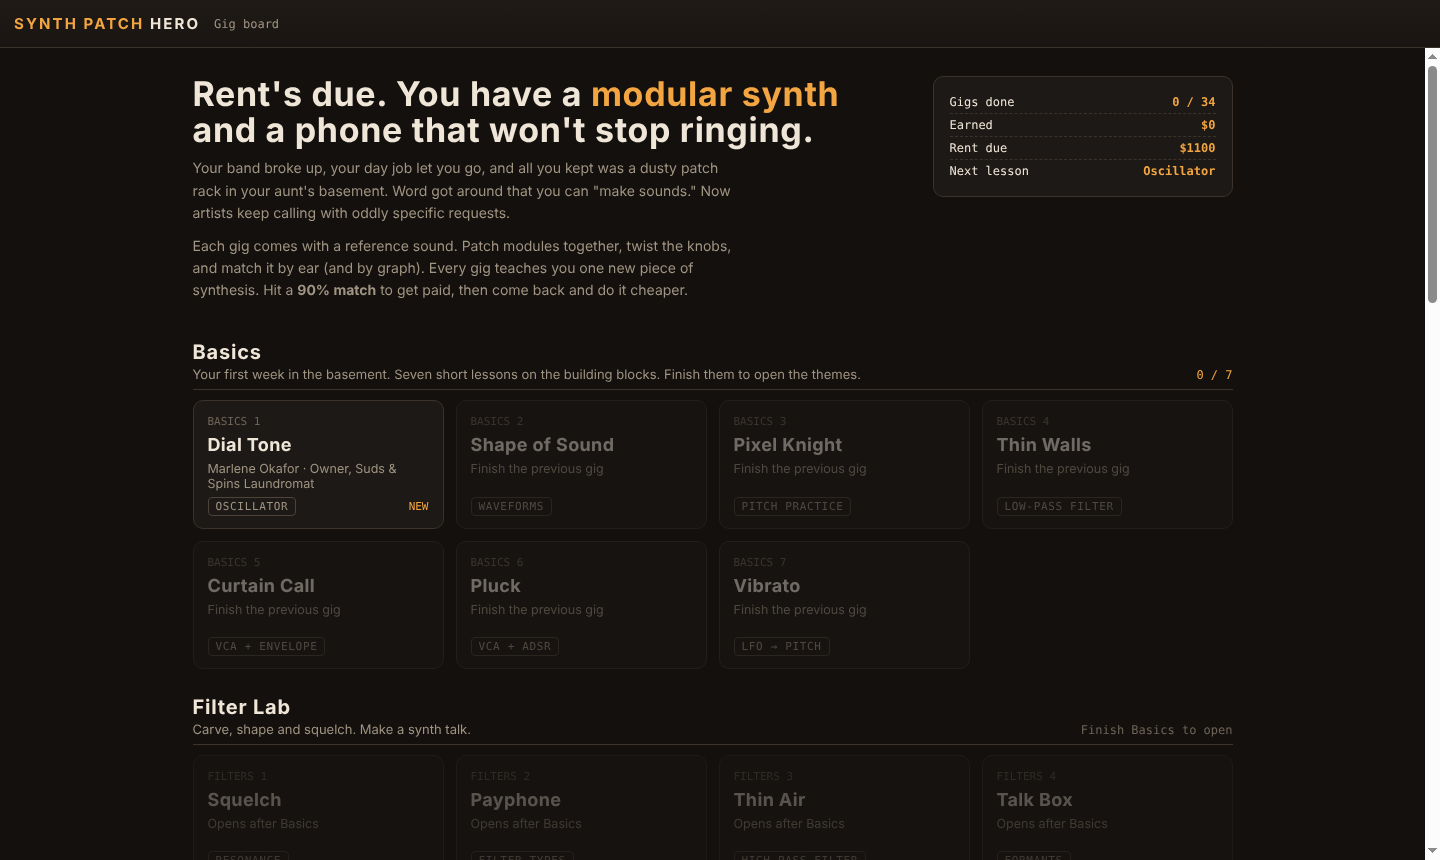
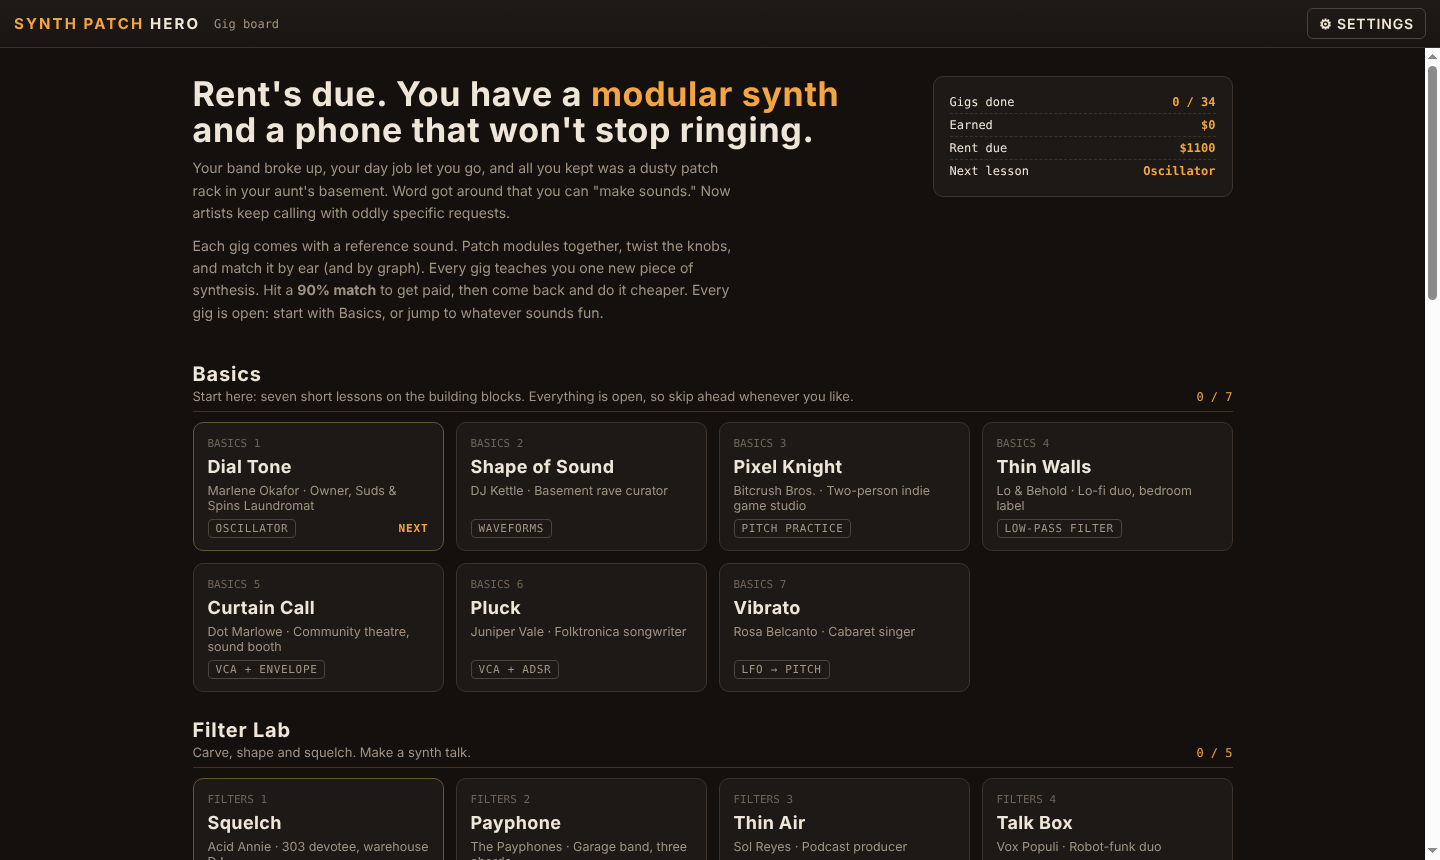
Open every gig from the start; Settings haptics is just on/off
Players can explore and skip ahead; progress is still recorded per gig.
Each chapter marks its earliest unsolved gig as NEXT. Removes the
'unlock all' button and the haptics Test button.

Claude-Session: https://claude.ai/code/session_01D5scM1CNbwhd8cCv6p5T59

diff --git a/js/ui.js b/js/ui.js
@@ -14,21 +14,19 @@ function showBoard(){
   const earn = Object.values(progress.solved).length*85;
   $('#ledger').innerHTML=`<div class="row"><span>Gigs done</span><b>${solved} / ${LEVELS.length}</b></div>
     <div class="row"><span>Earned</span><b>$${earn}</b></div><div class="row"><span>Rent due</span><b>$${Math.max(0,1100-earn)}</b></div>
-    <div class="row"><span>Next lesson</span><b>${(LEVELS.find((l,i)=>!progress.solved[l.id]&&isUnlocked(i))||{concept:'Mastery'}).concept}</b></div>`;
+    <div class="row"><span>Next lesson</span><b>${(LEVELS.find(l=>!progress.solved[l.id])||{concept:'Mastery'}).concept}</b></div>`;
   const g=$('#gigs'); g.innerHTML='';
   CHAPTERS.forEach(c=>{
     const done=c.levels.filter(i=>progress.solved[LEVELS[i].id]).length;
-    const locked=c.id!=='basics'&&!basicsDone()&&!progress.unlockAll;
-    const sec=el('section',{class:'chapter'+(locked?' locked':'')});
-    sec.innerHTML=`<div class="chHead"><div><h2>${c.title}</h2><p>${c.blurb}</p></div><span class="chProg">${locked?'Finish Basics to open':done===c.levels.length?'✓ complete':done+' / '+c.levels.length}</span></div>`;
+    const sec=el('section',{class:'chapter'}), nxt=nextInChapter(c);
+    sec.innerHTML=`<div class="chHead"><div><h2>${c.title}</h2><p>${c.blurb}</p></div><span class="chProg">${done===c.levels.length?'✓ complete':done+' / '+c.levels.length}</span></div>`;
     const grid=el('div',{class:'gigs'});
     c.levels.forEach((i,k)=>{
-      const L=LEVELS[i], sv=progress.solved[L.id], open=isUnlocked(i);
-      let b=el('button',{class:'gig'+(sv?' solved':'')+(L.challenge?' challenge':'')});
-      b.disabled=!open;
+      const L=LEVELS[i], sv=progress.solved[L.id];
+      let b=el('button',{class:'gig'+(sv?' solved':'')+(L.challenge?' challenge':'')+(i===nxt?' next':'')});
       b.innerHTML=`<div class="num">${c.short} ${k+1}${L.challenge?' · <span class="chal">CHALLENGE</span>':''}</div><div class="title">${L.title}</div>
-        <div class="client">${open?L.client+' · '+L.role:locked?'Opens after Basics':'Finish the previous gig'}</div>
-        <div class="concept"><span class="tag">${L.concept}</span>${sv?`<span class="stamp">PAID · ${sv.cost}¢ · ${Math.round(sv.match)}%${progress.played&&progress.played[L.id]?' · ♪':''}${progress.helped&&progress.helped[L.id]?' · helped':''}</span>`:open?'<span style="color:var(--amber)">NEW</span>':''}</div>`;
+        <div class="client">${L.client} · ${L.role}</div>
+        <div class="concept"><span class="tag">${L.concept}</span>${sv?`<span class="stamp">PAID · ${sv.cost}¢ · ${Math.round(sv.match)}%${progress.played&&progress.played[L.id]?' · ♪':''}${progress.helped&&progress.helped[L.id]?' · helped':''}</span>`:i===nxt?'<span class="nextTag">NEXT</span>':''}</div>`;
       b=Haptics.upgrade(b); b.addEventListener('click',()=>openLevel(i)); grid.appendChild(b);
     });
     sec.appendChild(grid); g.appendChild(sec);
@@ -641,7 +639,7 @@ function openSettings(){
   const row=(label,sub,btn)=>`<div class="setRow"><div><b>${label}</b><span>${sub}</span></div>${btn}</div>`;
   const hapSub=!Haptics.available?'Not available on this device.':Haptics.continuous?'Ticks on knobs, cables and modules.':'iPhone: ticks when you tap buttons, jacks, keys, slots and knob steps (iOS 18+). iOS doesn\'t allow ticks while dragging.';
   sh.innerHTML=`<div class="sheetCard"><div class="shHead"><span class="shTitle">SETTINGS</span><button class="btn primary" id="shDone">Done</button></div>
-    ${row('Haptics',hapSub+(Haptics.available?`<br><small>Method: ${Haptics.method}</small>`:''),Haptics.available?`<span class="hapCtl"><button class="btn" id="stHapTest">Test</button><label class="nativeSw" title="Haptics on/off"><input type="checkbox" switch id="stHapSw" ${Haptics.enabled?'checked':''}></label></span>`:'')}
+    ${row('Haptics',hapSub,Haptics.available?`<label class="nativeSw" title="Haptics on/off"><input type="checkbox" switch id="stHapSw" ${Haptics.enabled?'checked':''}></label>`:'')}
     ${inLevel?row('On-screen keyboard','Find the client\'s note and play your patch.',`<button class="btn tgl" id="stKeys">${S.keysOpen?'Shown':'Hidden'}</button>`):''}
     ${inLevel?row('Focus mode','Bigger board, compact compare bar.',`<button class="btn tgl" id="stFocus">${S.focus?'On':'Off'}</button>`):''}
     ${inLevel?row('Reset this rack','Removes everything you added to this gig.','<button class="btn" id="stReset">Reset</button>'):''}</div>`;
@@ -649,7 +647,6 @@ function openSettings(){
   $('#shDone').onclick=close; sh.onclick=e=>{ if(e.target===sh) close(); };
   // A real iOS switch: on iOS 18 the system itself ticks when it's flipped, so it doubles as a check that switch haptics work here.
   const hs=$('#stHapSw'); if(hs) hs.onchange=()=>{ Haptics.set(hs.checked); if(hs.checked) Haptics.select(); const fb=$('#btnHaptics'); if(fb&&fb.firstChild&&fb.firstChild.nodeType===3) fb.firstChild.nodeValue='Haptics: '+(Haptics.enabled?'on':'off'); };
-  let ht=$('#stHapTest'); if(ht) ht=Haptics.upgrade(ht); if(ht) ht.onclick=()=>{ if(!Haptics.enabled){ toast('Haptics are off. Flip the switch first.'); return; } Haptics.test(); toast(Haptics.continuous?'Buzz sent.':'Felt a tick? Then buttons, jacks, keys and knob steps will tick too.'); };
   if(inLevel){
     $('#stKeys').onclick=()=>{ close(); setKeysOpen(!S.keysOpen); };
     $('#stFocus').onclick=()=>{ close(); setFocus(!S.focus); };
@@ -661,8 +658,7 @@ $('#briefBtn').onclick=openSide; $('#sideClose').onclick=closeSide; $('#sideBack
 $('#midiChip').onclick=()=>{ if(MIDI.state==='on'){ toast('Connected: '+MIDI.names.join(', ')); return; } connectMIDI(false); };
 if(store.get('midiAuto',false)) connectMIDI(true);
 $('#btnHome').onclick=showBoard;
-$('#btnUnlock').onclick=()=>{ progress.unlockAll=true; saveProgress(); showBoard(); toast('All gigs unlocked'); };
 (function(){ if(!Haptics.available) return; let b=el('button',{class:'btn ghost',id:'btnHaptics'}); $('#btnReset').after(b); b=Haptics.upgrade(b);
   const lbl=()=>{ b.firstChild&&b.firstChild.nodeType===3?b.firstChild.nodeValue='Haptics: '+(Haptics.enabled?'on':'off'):b.prepend('Haptics: '+(Haptics.enabled?'on':'off')); }; lbl();
   b.onclick=()=>{ Haptics.set(!Haptics.enabled); lbl(); Haptics.select(); }; })();
-$('#btnReset').onclick=()=>{ const b=$('#btnReset'); if(b.dataset.armed){ progress={solved:{},unlockAll:false}; saveProgress(); LEVELS.concat([SANDBOX]).forEach(L=>{ store.del('draft.'+L.id); store.del('draft2.'+L.id); }); b.textContent='Wipe progress'; delete b.dataset.armed; showBoard(); toast('Progress wiped'); } else { b.dataset.armed=1; b.textContent='Click again to confirm'; setTimeout(()=>{ b.textContent='Wipe progress'; delete b.dataset.armed; },3000); } };
+$('#btnReset').onclick=()=>{ const b=$('#btnReset'); if(b.dataset.armed){ progress={solved:{}}; saveProgress(); LEVELS.concat([SANDBOX]).forEach(L=>{ store.del('draft.'+L.id); store.del('draft2.'+L.id); }); b.textContent='Wipe progress'; delete b.dataset.armed; showBoard(); toast('Progress wiped'); } else { b.dataset.armed=1; b.textContent='Click again to confirm'; setTimeout(()=>{ b.textContent='Wipe progress'; delete b.dataset.armed; },3000); } };

diff --git a/index.html b/index.html
@@ -22,13 +22,12 @@
       <div>
         <h1>Rent's due. You have a <em>modular synth</em> and a phone that won't stop ringing.</h1>
         <p>Your band broke up, your day job let you go, and all you kept was a dusty patch rack in your aunt's basement. Word got around that you can "make sounds." Now artists keep calling with oddly specific requests.</p>
-        <p>Each gig comes with a reference sound. Patch modules together, twist the knobs, and match it by ear (and by graph). Every gig teaches you one new piece of synthesis. Hit a <b>90% match</b> to get paid, then come back and do it cheaper.</p>
+        <p>Each gig comes with a reference sound. Patch modules together, twist the knobs, and match it by ear (and by graph). Every gig teaches you one new piece of synthesis. Hit a <b>90% match</b> to get paid, then come back and do it cheaper. Every gig is open: start with Basics, or jump to whatever sounds fun.</p>
       </div>
       <div class="ledger" id="ledger"></div>
     </div>
     <div id="gigs"></div>
     <div class="boardFoot">
-      <button class="btn ghost" id="btnUnlock">Studio key: unlock all gigs</button>
       <button class="btn ghost" id="btnReset">Wipe progress</button>
       <span>Use headphones. Works on desktop and phones.</span>
     </div>

diff --git a/js/store.js b/js/store.js
@@ -8,16 +8,14 @@ const store = {
   set(k,v){ try{ localStorage.setItem('sph.'+k,JSON.stringify(v)); }catch(e){} },
   del(k){ try{ localStorage.removeItem('sph.'+k);}catch(e){} }
 };
-let progress = store.get('progress',{solved:{},unlockAll:false});
+let progress = store.get('progress',{solved:{}});
 const saveProgress = ()=>store.set('progress',progress);
 const chapterOf = i => CHAPTERS.find(c=>c.id===LEVELS[i].ch);
 const basicsDone = () => CHAPTERS[0].levels.every(i=>progress.solved[LEVELS[i].id]);
-function isUnlocked(i){
-  if(progress.unlockAll) return true;
-  const c=chapterOf(i), k=c.levels.indexOf(i);
-  if(c.id!=='basics'&&!basicsDone()) return false;
-  return k===0||!!progress.solved[LEVELS[c.levels[k-1]].id];
-}
+/* Every gig is open so players can explore and skip ahead. Progress is still recorded; the board suggests an order. */
+function isUnlocked(i){ return i>=0&&i<LEVELS.length; }
+/* The suggested next gig in a chapter: its first unsolved one. */
+function nextInChapter(c){ return c.levels.find(i=>!progress.solved[LEVELS[i].id]); }
 /* Features (which knobs/jacks show) needed by a gig's reference patch. */
 function autoFeatures(L){
   const f=new Set();

diff --git a/js/data.js b/js/data.js
@@ -418,7 +418,7 @@ const LEVELS = [
 
 /* Chapters: Basics is a linear tutorial; every theme opens once Basics is done. */
 const CHAPTERS = [
-  {id:'basics', title:'Basics', short:'BASICS', blurb:'Your first week in the basement. Seven short lessons on the building blocks. Finish them to open the themes.'},
+  {id:'basics', title:'Basics', short:'BASICS', blurb:'Start here: seven short lessons on the building blocks. Everything is open, so skip ahead whenever you like.'},
   {id:'filters', title:'Filter Lab', short:'FILTERS', blurb:'Carve, shape and squelch. Make a synth talk.'},
   {id:'bass', title:'Bass', short:'BASS', blurb:'From clean sub bass to growling engines.'},
   {id:'pads', title:'Pads', short:'PADS', blurb:'Slow, wide, atmospheric beds of sound.'},

diff --git a/css/style.css b/css/style.css
@@ -466,3 +466,5 @@ label.btn[aria-disabled="true"],label.palBtn[aria-disabled="true"],label.gig[ari
 .slotMenu label[role=button].x{grid-column:span 2;justify-content:center;color:var(--dim);background:transparent}
 @media (max-width:760px){ .choice label[role=button]{height:34px;max-width:56px} }
 label.kbClose,#btnHelp[role=button]{display:inline-flex;align-items:center;justify-content:center}
+.gig .nextTag{color:var(--amber);font-weight:600;letter-spacing:.08em}
+.gig.next{border-color:#6a5230}

diff --git a/docs/design.md b/docs/design.md
@@ -50,7 +50,7 @@ Feedback that drove it: difficulty rises fast (especially the VCA lesson); playe
   - Compare strip: ▶ Target · ▶ Yours · % · Send · round **?** Help; hint clamped to 2 lines; shorter graph; no duplicate progress bar.
   - Toolbar: Brief · scrolling palette · fixed ♪ Keys and ⛶ Focus icons. Reset moved to Settings.
   - On phones the keyboard always starts hidden (the "keep open" preference is desktop-only), and it has its own × close.
-- **⚙ Settings** (everywhere): Haptics (a real iOS `switch`, with a Test button and the method in use), On-screen keyboard, Focus mode, Reset this rack.
+- **⚙ Settings** (everywhere): Haptics on/off (a real iOS `switch`), On-screen keyboard, Focus mode, Reset this rack. The temporary iPhone haptic tests and Test button were removed once the technique was settled.
 
 ## Feel: haptics and the end-of-gig jingle
 - **Haptics** (`js/haptics.js`, touch devices only, on/off switch on the gig board, saved): a knob tick at each step (stepped knobs) or every 5% (smooth knobs), and a firmer bump at an end stop. Cable plug = one solid pulse, unplug = double tap, add/move/remove a module = thunk, choice buttons and jack picks = light tick, on-screen keys = tiny tick, crossing 90% and Send = celebration pattern. Throttled so fast turns don't blur into one buzz.
@@ -79,7 +79,7 @@ OSC 2¢ (wave, oct, semi, fine, pitch mod amt) · NOISE 1¢ · FILTER 3¢ (LP/HP
 Yellow cables = audio, blue = control. Modulation depth lives on the destination (MOD AMT knobs). Knobs and jacks unlock per lesson.
 
 ## Curriculum (34 gigs in 7 chapters + Free Jam)
-Structure: **Basics** is a linear tutorial (7 gigs). Finishing it opens all six **themes** at once; within a theme, gigs unlock in order. Each theme ends in exactly one **challenge** gig (`challenge:true`). A challenge hides the parts list and the missing-part names, showing only "N/M modules", and its manual gives guiding questions instead of steps.
+Structure: **Basics** (7 gigs) is the suggested starting point, followed by six **themes**. **Every gig is open from the start** (playtest, 2026-11-22: let people explore and skip ahead); progress is still recorded per gig. The board suggests an order: each chapter marks its first unsolved gig as **NEXT**, and the ledger's "Next lesson" is the earliest unsolved gig. Each theme ends in exactly one **challenge** gig (`challenge:true`), which hides the parts list and missing-part names (showing only "N/M modules") and gives guiding questions instead of steps.
 - **Basics:** Dial Tone (oscillator, pitch, cables) · Shape of Sound (waveforms) · Pixel Knight (intervals) · Thin Walls (low-pass) · Curtain Call (VCA + envelope: sustain & release, with OSC → VCA → OUT pre-wired) · Pluck (all four ADSR stages, built from scratch) · Vibrato (LFO, modulation)
 - **Filter Lab:** Squelch (resonance) · Payphone (filter types) · Thin Air (high-pass) · Talk Box (formants) · ★ Acid Test
 - **Bass:** Sub Club (sub bass) · Wow Bass (filter envelope, presets) · Pluck Bass · Wobble (LFO → filter) · ★ Reese
@@ -90,7 +90,7 @@ Structure: **Basics** is a linear tutorial (7 gigs). Finishing it opens all six 
 
 **Features** (which knobs/jacks are visible): in Basics they unlock lesson by lesson (`unlock`). In themes the player gets everything from Basics plus waveform/resonance/filter type, plus whatever the chapter's gigs so far use (derived from their reference patches: `fine`, `noise`, `mod`, …).
 
-**Quality checks per gig** (`npm test`): the reference patch scores 100%; an untouched rack scores under 80%; ids are unique; every theme ends in one challenge; unlock order is correct. When authoring, also check that removing any module from the reference patch scores under 90%, so a gig can't be passed by skipping its lesson.
+**Quality checks per gig** (`npm test`): the reference patch scores 100%; an untouched rack scores under 80%; ids are unique; every theme ends in one challenge; every gig is open; NEXT points at each chapter's earliest unsolved gig, even when later gigs were solved out of order. When authoring, also check that removing any module from the reference patch scores under 90%, so a gig can't be passed by skipping its lesson.
 
 ## Matching
 Offline render at 22.05 kHz, then: spectrogram distance (per-frame normalized, loudness-weighted, 1/36-oct bands) 50%, average-spectrum tone 20%, perceptual loudness envelope 30%. Score = exp(-d/K) per part, geometric mean. Per-level `tol` widens tolerance for movement-based gigs (vibrato, wobble, detune = 3; fast LFO gigs Siren and Close Encounter = 5; percussive = 1.5). `tolShape` optionally sets a separate, stricter loudness-shape tolerance (1.2 on slow-movement pads/leads/FX), so a gig can't be passed by leaving out its volume envelope. Calibration: `index.html#selftest`, enforced by `npm test`.

diff --git a/README.md b/README.md
@@ -31,7 +31,7 @@ On phones, knobs, cables and modules give **haptic feedback** (Android fully; iP
 
 ## Curriculum
 
-**Basics** is a seven-lesson tutorial on the building blocks. Finishing it opens six **themes**, which you can play in any order. Each theme teaches its style through several lessons and ends with a **challenge**: no parts list, just the brief, the sound and how many modules the patch uses.
+**Basics** is a seven-lesson tutorial on the building blocks, followed by six **themes**. **Every gig is open**, so start with Basics or skip ahead; your progress is saved either way, and each chapter marks its next gig. Each theme teaches its style through several lessons and ends with a **challenge**: no parts list, just the brief, the sound and how many modules the patch uses.
 
 | Chapter | Gigs (★ = challenge) |
 |---|---|
